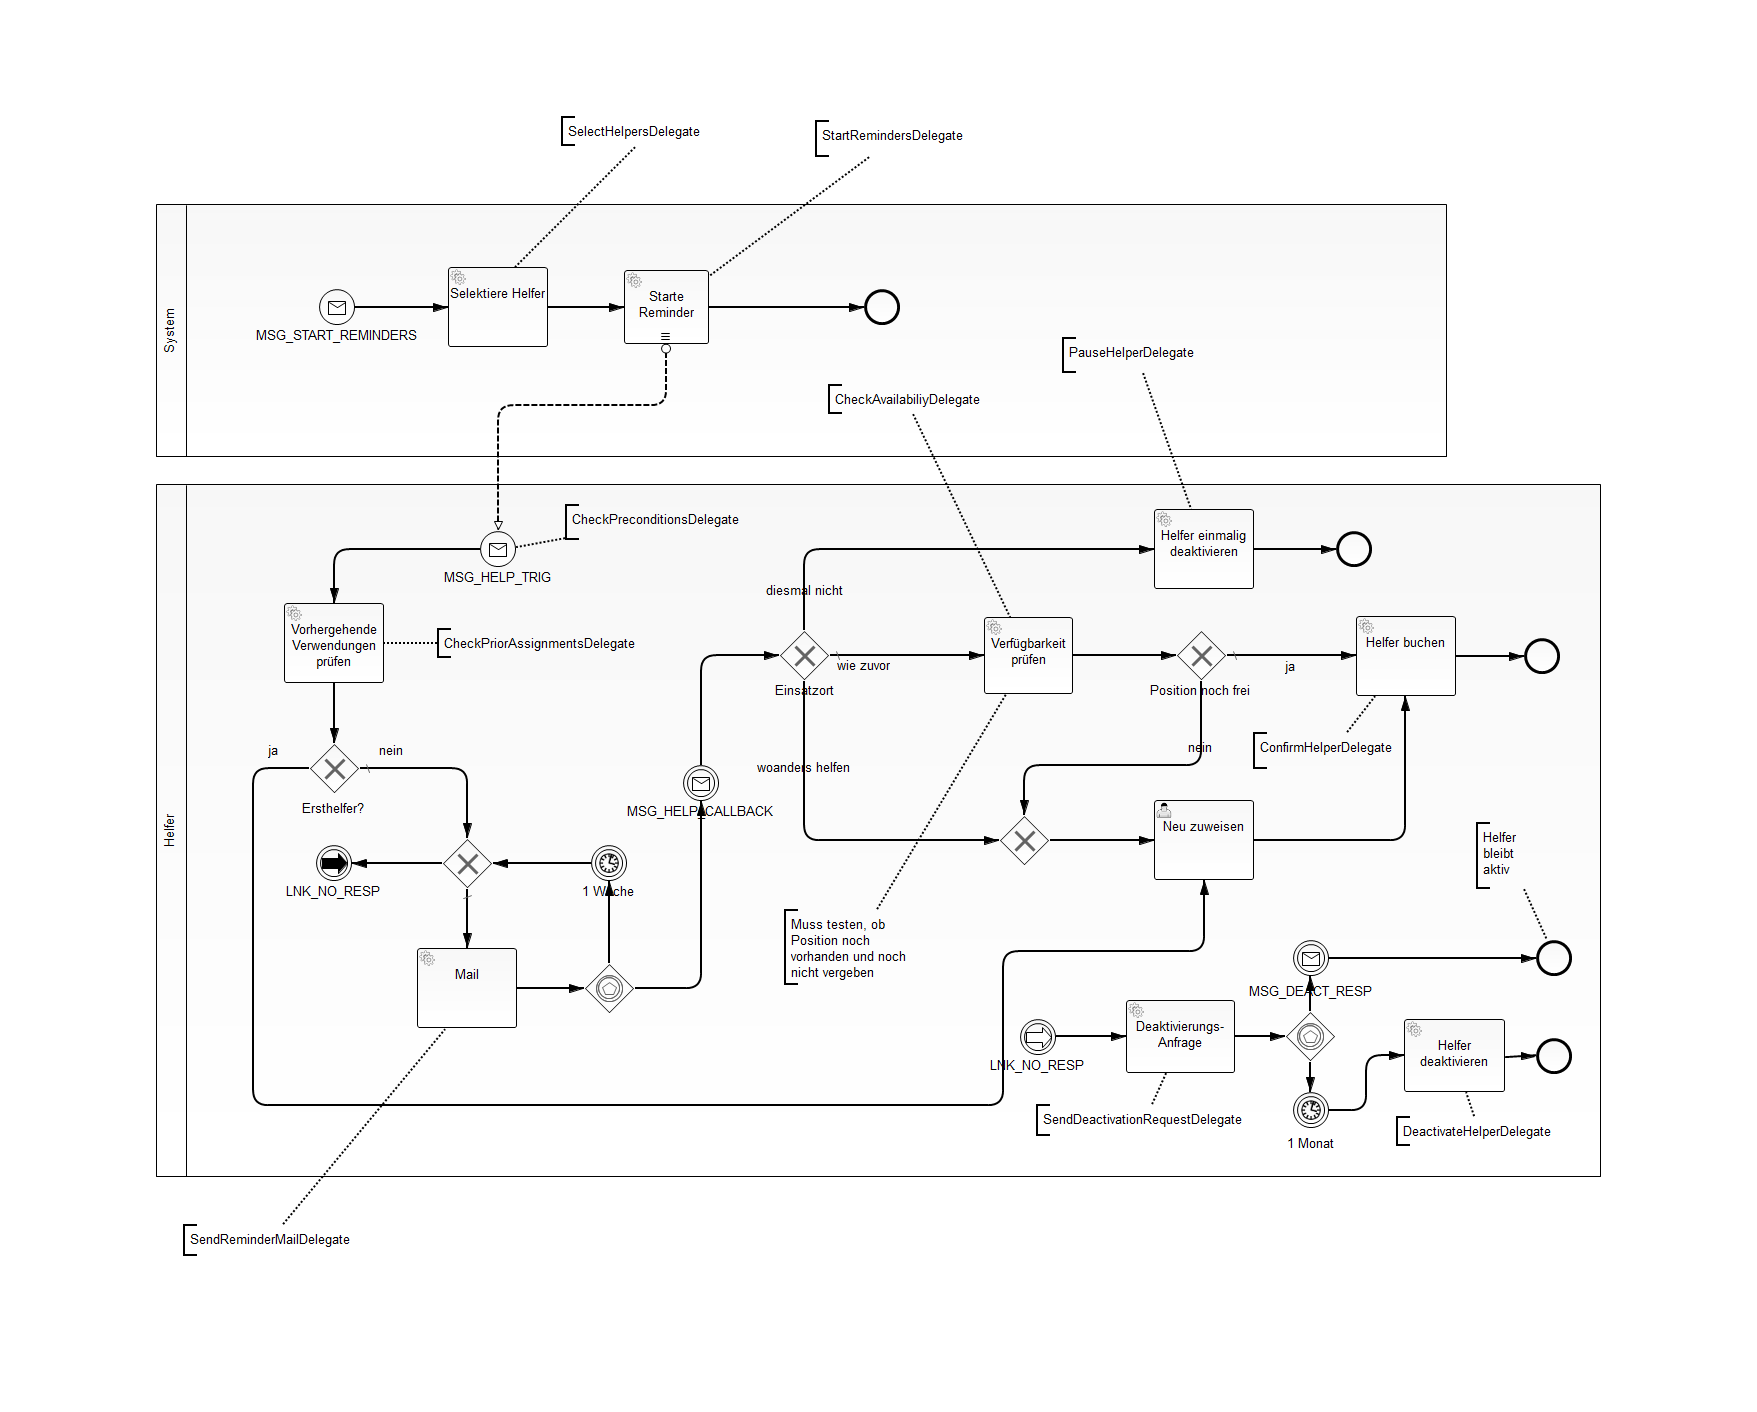
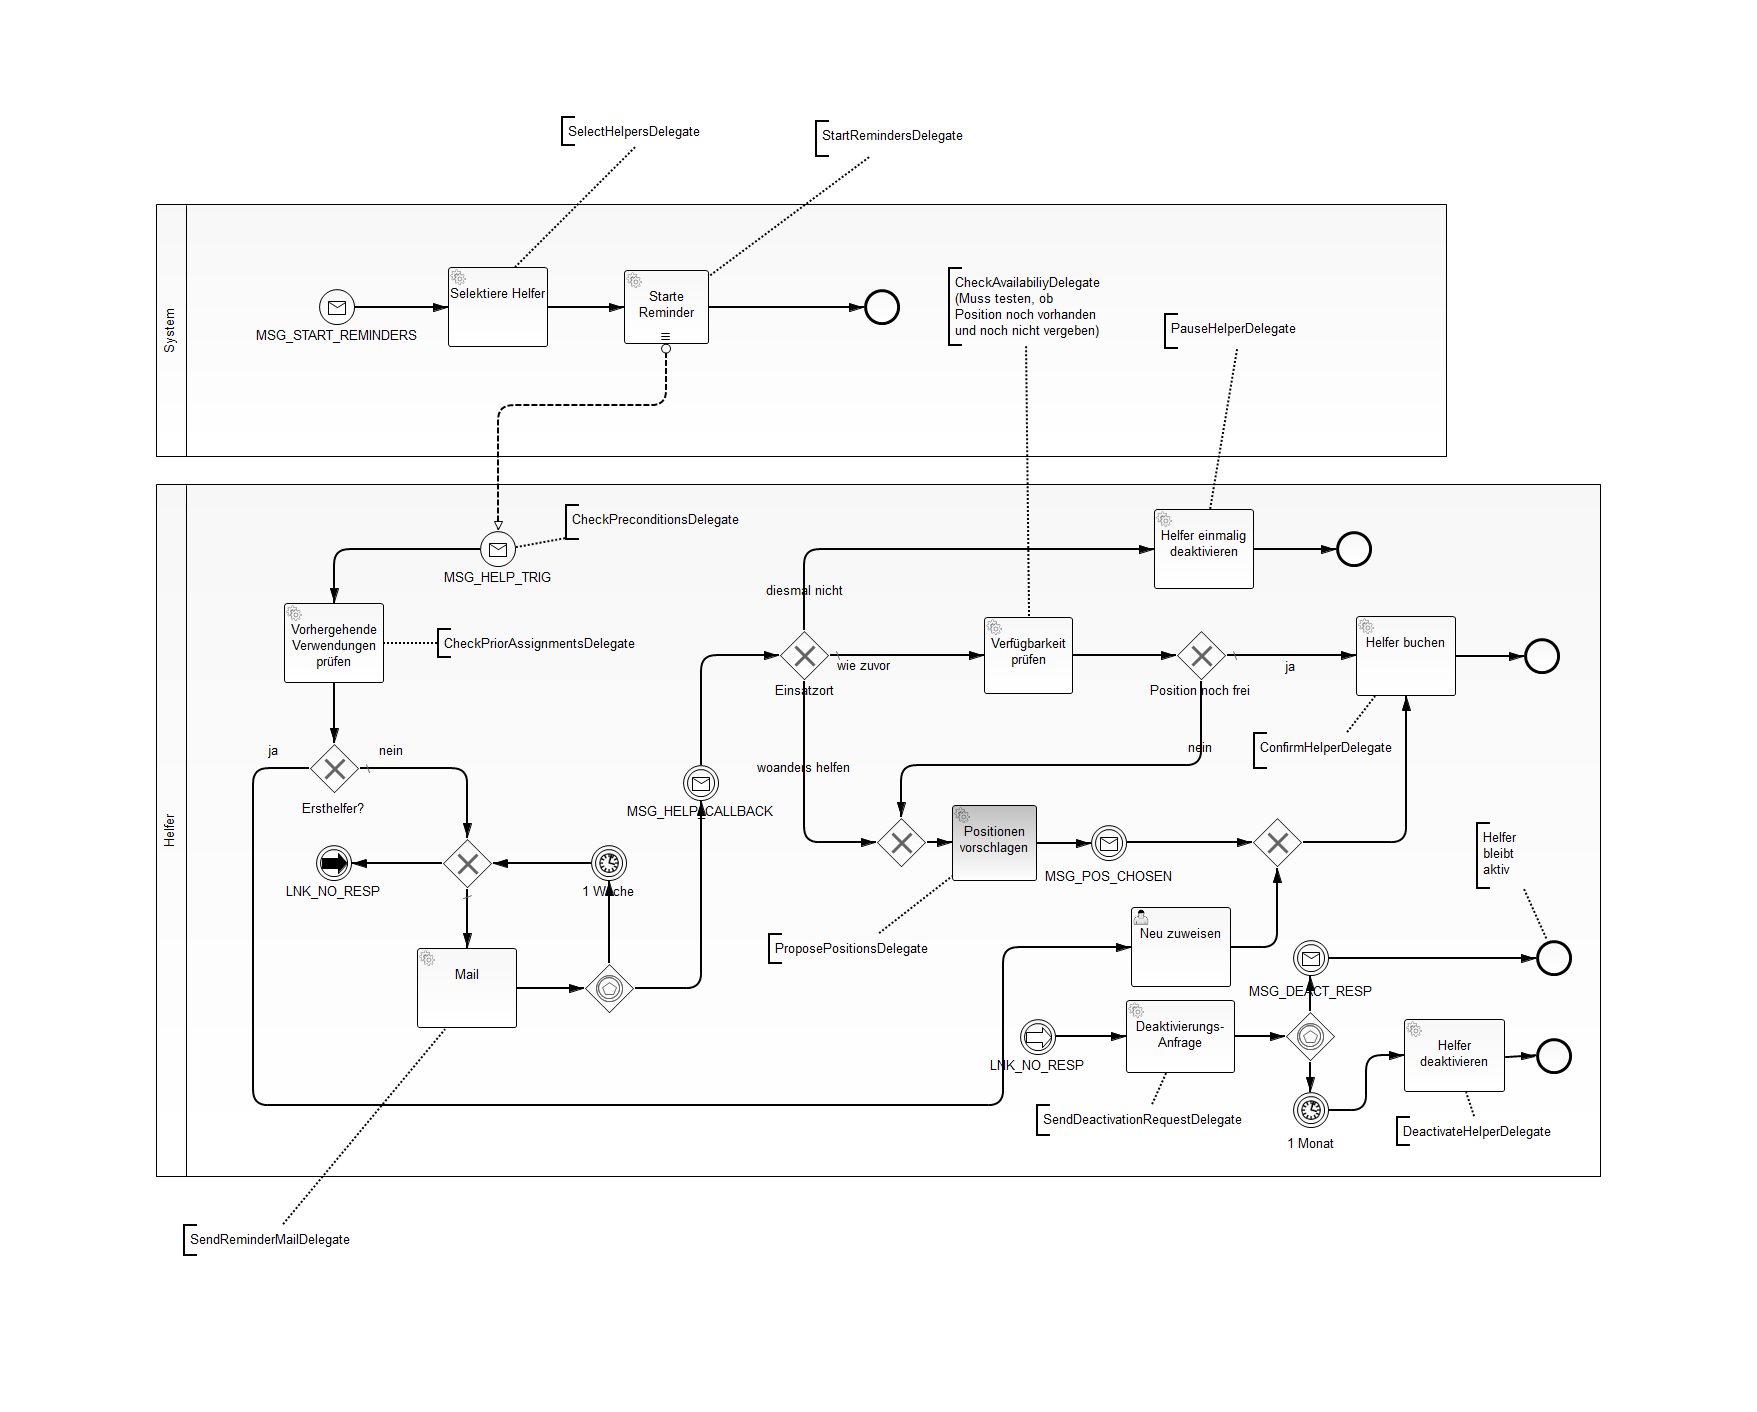
...

diff --git a/resourceplanning-entity/src/main/java/de/trispeedys/resourceplanning/service/PositionService.java b/resourceplanning-entity/src/main/java/de/trispeedys/resourceplanning/service/PositionService.java
@@ -4,6 +4,10 @@ import java.util.ArrayList;
 import java.util.HashMap;
 import java.util.List;
 
+import org.hibernate.Query;
+import org.hibernate.Session;
+
+import de.trispeedys.resourceplanning.HibernateUtil;
 import de.trispeedys.resourceplanning.entity.DatasourceRegistry;
 import de.trispeedys.resourceplanning.entity.Event;
 import de.trispeedys.resourceplanning.entity.EventCommitment;
@@ -15,7 +19,11 @@ public class PositionService
     @SuppressWarnings("unchecked")
     public static List<Position> findPositionsInEvent(Event event)
     {
-        List<Object[]> list = (List<Object[]>) DatasourceRegistry.getDatasource(null).find("FROM "+EventPosition.class.getSimpleName()+" ep INNER JOIN ep.position pos WHERE ep.event = :event", "event", event);
+        List<Object[]> list =
+                (List<Object[]>) DatasourceRegistry.getDatasource(null).find(
+                        "FROM " +
+                                EventPosition.class.getSimpleName() +
+                                " ep INNER JOIN ep.position pos WHERE ep.event = :event", "event", event);
         List<Position> result = new ArrayList<Position>();
         for (Object[] tuple : list)
         {
@@ -31,8 +39,9 @@ public class PositionService
      * @param position
      * @return
      */
-    @SuppressWarnings({
-            "unchecked"
+    @SuppressWarnings(
+    {
+        "unchecked"
     })
     public static boolean isPositionAssigned(Long eventId, Position position)
     {
@@ -40,8 +49,7 @@ public class PositionService
         {
             return false;
         }
-        String queryString = "From " +
-                EventCommitment.class.getSimpleName() + " ec WHERE ec.position = :position";
+        String queryString = "From " + EventCommitment.class.getSimpleName() + " ec WHERE ec.position = :position";
         List<Object[]> list = (List<Object[]>) DatasourceRegistry.getDatasource(null).find(queryString);
         return false;
     }
@@ -70,7 +78,27 @@ public class PositionService
         HashMap<String, Object> parameters = new HashMap<String, Object>();
         parameters.put("position", position);
         parameters.put("event", event);
-        List<?> result = DatasourceRegistry.getDatasource(null).find("FROM " + EventPosition.class.getSimpleName() + " ep WHERE ep.position = :position AND ep.event = :event", parameters );
+        List<?> result =
+                DatasourceRegistry.getDatasource(EventPosition.class).find(
+                        "FROM " +
+                                EventPosition.class.getSimpleName() +
+                                " ep WHERE ep.position = :position AND ep.event = :event", parameters);
         return ((result != null) && (result.size() > 0));
+    }
+
+    public static List<Position> findUnassignedPositionsInEvent(Event event)
+    {
+        // find positions for that event
+        Session session = HibernateUtil.getSessionFactory().openSession();
+        String qryString =
+                "FROM " +
+                        EventPosition.class.getSimpleName() + " ep WHERE ep." + EventPosition.ATTR_EVENT +
+                        " = :event AND ep.position.id NOT IN (SELECT ec.position.id FROM " +
+                        EventCommitment.class.getSimpleName() + " ec WHERE ec.event = :event)";
+        Query q = session.createQuery(qryString);
+        q.setParameter("event", event);
+        List result = q.list();
+        session.close();
+        return result;
     }
 }

diff --git a/resourceplanning-entity/src/main/java/de/trispeedys/resourceplanning/test/TestDataProvider.java b/resourceplanning-entity/src/main/java/de/trispeedys/resourceplanning/test/TestDataProvider.java
@@ -12,6 +12,40 @@ import de.trispeedys.resourceplanning.entity.util.EntityFactory;
 public class TestDataProvider
 {
     private static final String MAIL_ADDRESS = "testhelper1.trispeedys@gmail.com";
+    
+    /**
+     * creates an {@link Event} like {@link TestDataProvider#createMinimalEvent(String, String, int, int, int)},
+     * but without assignments of positions to helpers.
+     * 
+     * @return
+     */
+    public static Event createSimpleUnassignedEvent(String description, String eventKey, int day, int month, int year)
+    {
+        // build event
+        Event myLittleEvent = EntityFactory.buildEvent(description, eventKey, day, month, year).persist();
+        
+        // create helpers
+        Helper helper1 =
+                EntityFactory.buildHelper("H1_First", "H1_Last", MAIL_ADDRESS, HelperState.ACTIVE, 1, 1, 1980)
+                        .persist();
+        Helper helper3 =
+                EntityFactory.buildHelper("H3_First", "H3_Last", MAIL_ADDRESS, HelperState.ACTIVE, 3, 1, 1980)
+                        .persist();
+        
+        // build domains
+        Domain domain1 = EntityFactory.buildDomain("D1", 1, null).persist();
+        Domain domain2 = EntityFactory.buildDomain("D2", 1, null).persist();
+        // build positions
+        Position pos1 = EntityFactory.buildPosition("P1", 12, domain1).persist();
+        Position pos2 = EntityFactory.buildPosition("P2", 12, domain1).persist();
+        Position pos3 = EntityFactory.buildPosition("P3", 12, domain2).persist();
+        Position pos4 = EntityFactory.buildPosition("P4", 12, domain2).persist();
+        Position pos5 = EntityFactory.buildPosition("P5", 12, domain2).persist();
+        // assign positions to event
+        DataModelUtil.relatePositionsToEvent(myLittleEvent, pos1, pos2, pos3, pos4, pos5);
+
+        return myLittleEvent;        
+    }
 
     /**
      * creates a litte test event ('My little event') with 2 domains D1 (positios: P1, P2) and D2 (positios: P3, P4,

diff --git a/resourceplanning-bpm/src/test/java/de/trispeedys/resourceplanning/RequestHelpTest.java b/resourceplanning-bpm/src/test/java/de/trispeedys/resourceplanning/RequestHelpTest.java
@@ -122,9 +122,9 @@ public class RequestHelpTest extends GenericBpmTest
 
     /**
      * Follow up assignment -> assignment wished as before (2014), but position is already occupied in 2015 (to
-     * 'blocking helper'). In this case, the user task for manual assignment must be generated.
+     * 'blocking helper'). In this case, the user must get a mail which proposes other assignments to hin (and also answer it).
      */
-    @Test
+    //@Test
     @Deployment(resources = "RequestHelp.bpmn")
     public void testFollowingAssigmnmentForPosition()
     {
@@ -157,9 +157,10 @@ public class RequestHelpTest extends GenericBpmTest
         variables.put(BpmVariables.RequestHelpHelper.VAR_HELPER_CALLBACK, HelperCallback.ASSIGNMENT_AS_BEFORE);
         rule.getRuntimeService().correlateMessage(BpmMessages.RequestHelpHelper.MSG_HELP_CALLBACK, businessKey,
                 variables);
-        // now the manual new assignment must have been generated by the process engine,
+        // now the helper must choose a proposed position
         // as the desired position is blocked by 'blocking helper' in 2015...
-        assertTrue(wasTaskGenerated(BpmTaskDefinitionKeys.RequestHelpHelper.TASK_DEFINITION_KEY_MANUAL_ASSIGNMENT, rule));
+        rule.getRuntimeService().correlateMessage(BpmMessages.RequestHelpHelper.MSG_POS_CHOSEN, businessKey,
+                variables);
     }
 
     // @Test

diff --git a/resourceplanning-bpm/src/main/java/de/trispeedys/resourceplanning/delegate/requesthelp/ProposePositionsDelegate.java b/resourceplanning-bpm/src/main/java/de/trispeedys/resourceplanning/delegate/requesthelp/ProposePositionsDelegate.java
@@ -1,0 +1,28 @@
+package de.trispeedys.resourceplanning.delegate.requesthelp;
+
+import java.util.List;
+
+import org.camunda.bpm.engine.delegate.DelegateExecution;
+import org.camunda.bpm.engine.delegate.JavaDelegate;
+
+import de.trispeedys.resourceplanning.entity.DatasourceRegistry;
+import de.trispeedys.resourceplanning.entity.Event;
+import de.trispeedys.resourceplanning.entity.Position;
+import de.trispeedys.resourceplanning.service.PositionService;
+import de.trispeedys.resourceplanning.util.exception.ResourcePlanningException;
+import de.trispeedys.resourceplanning.variables.BpmVariables;
+
+public class ProposePositionsDelegate implements JavaDelegate
+{
+    public void execute(DelegateExecution execution) throws Exception
+    {
+        // send a mail with all unassigned positions in the current event
+        Long eventId = (Long) execution.getVariable(BpmVariables.RequestHelpHelper.VAR_EVENT_ID);
+        Event event = (Event) DatasourceRegistry.getDatasource(Event.class).findById(Event.class, eventId);
+        List<Position> unassignedPositions = PositionService.findUnassignedPositionsInEvent(event);
+        if ((unassignedPositions == null) || (unassignedPositions.size() == 0))
+        {
+            throw new ResourcePlanningException("can not propose any unassigned positions as there are none!!");
+        }
+    }
+}

diff --git a/resourceplanning-entity/src/test/java/de/trispeedys/resourceplanning/DatabaseOperationsTest.java b/resourceplanning-entity/src/test/java/de/trispeedys/resourceplanning/DatabaseOperationsTest.java
@@ -1,5 +1,6 @@
 package de.trispeedys.resourceplanning;
 
+import java.util.HashMap;
 import java.util.List;
 
 import org.junit.Test;
@@ -12,6 +13,21 @@ import static org.junit.Assert.assertEquals;
 
 public class DatabaseOperationsTest
 {
+    @Test
+    public void testFetchListByQuery()
+    {        
+        //clear db
+        HibernateUtil.clearAll();
+        
+        Helper helper1 = EntityFactory.buildHelper("Helfer", "Eins", "", HelperState.ACTIVE, 1, 1, 1980).persist();
+        Helper helper2 = EntityFactory.buildHelper("Helfer", "Zwei", "", HelperState.INACTIVE, 1, 1, 1980).persist();
+        
+        String qry = "FROM " + Helper.class.getSimpleName() + " h WHERE h."+Helper.ATTR_HELPER_STATE+" = :helperState";
+        HashMap parameters = new HashMap<String, Object>();
+        parameters.put(Helper.ATTR_HELPER_STATE, HelperState.ACTIVE);
+        List<Helper> found = DatasourceRegistry.getDatasource(Helper.class).find(qry, parameters);
+    }
+    
     @Test
     public void testFetchDedicated()
     {        

diff --git a/resourceplanning-bpm/src/main/java/de/trispeedys/resourceplanning/delegate/requesthelp/ConfirmHelperDelegate.java b/resourceplanning-bpm/src/main/java/de/trispeedys/resourceplanning/delegate/requesthelp/ConfirmHelperDelegate.java
@@ -3,10 +3,17 @@ package de.trispeedys.resourceplanning.delegate.requesthelp;
 import org.camunda.bpm.engine.delegate.DelegateExecution;
 import org.camunda.bpm.engine.delegate.JavaDelegate;
 
+import de.trispeedys.resourceplanning.util.exception.ResourcePlanningException;
+import de.trispeedys.resourceplanning.variables.BpmVariables;
+
 public class ConfirmHelperDelegate implements JavaDelegate
 {
     public void execute(DelegateExecution execution) throws Exception
     {
-        // TODO Auto-generated method stub
+        // at this point, the variable indicating the chosen position must be set, so...
+        if (execution.getVariable(BpmVariables.RequestHelpHelper.VAR_CHOSEN_POSITION) == null)
+        {
+            throw new ResourcePlanningException("can not book helper to position for position id not set!!");
+        }
     }
 }

diff --git a/resourceplanning-bpm/src/test/java/de/trispeedys/resourceplanning/util/RequestHelpTestUtil.java b/resourceplanning-bpm/src/test/java/de/trispeedys/resourceplanning/util/RequestHelpTestUtil.java
@@ -67,7 +67,7 @@ public class RequestHelpTestUtil
         return true;
     }
 
-    private static boolean messageTypePresent(MessagingType type, List<MessageQueue> messages)
+    public static boolean messageTypePresent(MessagingType type, List<MessageQueue> messages)
     {
         for (MessageQueue q : messages)
         {

diff --git a/resourceplanning-bpm/src/main/java/de/trispeedys/resourceplanning/variables/BpmVariables.java b/resourceplanning-bpm/src/main/java/de/trispeedys/resourceplanning/variables/BpmVariables.java
@@ -19,5 +19,7 @@ public class BpmVariables
         public static final String VAR_ACTIVE_HELPER_ID = "activeHelperId";
         
         public static final String VAR_MAIL_ATTEMPTS = "mailAttempts";
+        
+        public static final String VAR_CHOSEN_POSITION = "chosenPosition";
     }
 }

diff --git a/resourceplanning-bpm/src/main/java/de/trispeedys/resourceplanning/messages/BpmMessages.java b/resourceplanning-bpm/src/main/java/de/trispeedys/resourceplanning/messages/BpmMessages.java
@@ -11,5 +11,7 @@ public class BpmMessages
         public static final String MSG_HELP_CALLBACK = "MSG_HELP_CALLBACK";
         
         public static final String MSG_DEACT_RESP = "MSG_DEACT_RESP";
+
+        public static final String MSG_POS_CHOSEN = "MSG_POS_CHOSEN";
     }
 }

diff --git a/resourceplanning-entity/src/main/java/de/trispeedys/resourceplanning/entity/EventPosition.java b/resourceplanning-entity/src/main/java/de/trispeedys/resourceplanning/entity/EventPosition.java
@@ -15,6 +15,8 @@ import javax.persistence.Table;
 @Table(name = "event_position")
 public class EventPosition extends AbstractDbObject
 {
+    public static final String ATTR_EVENT = "event";
+
     @OneToOne
     @JoinColumn(name = "position_id")
     private Position position;
